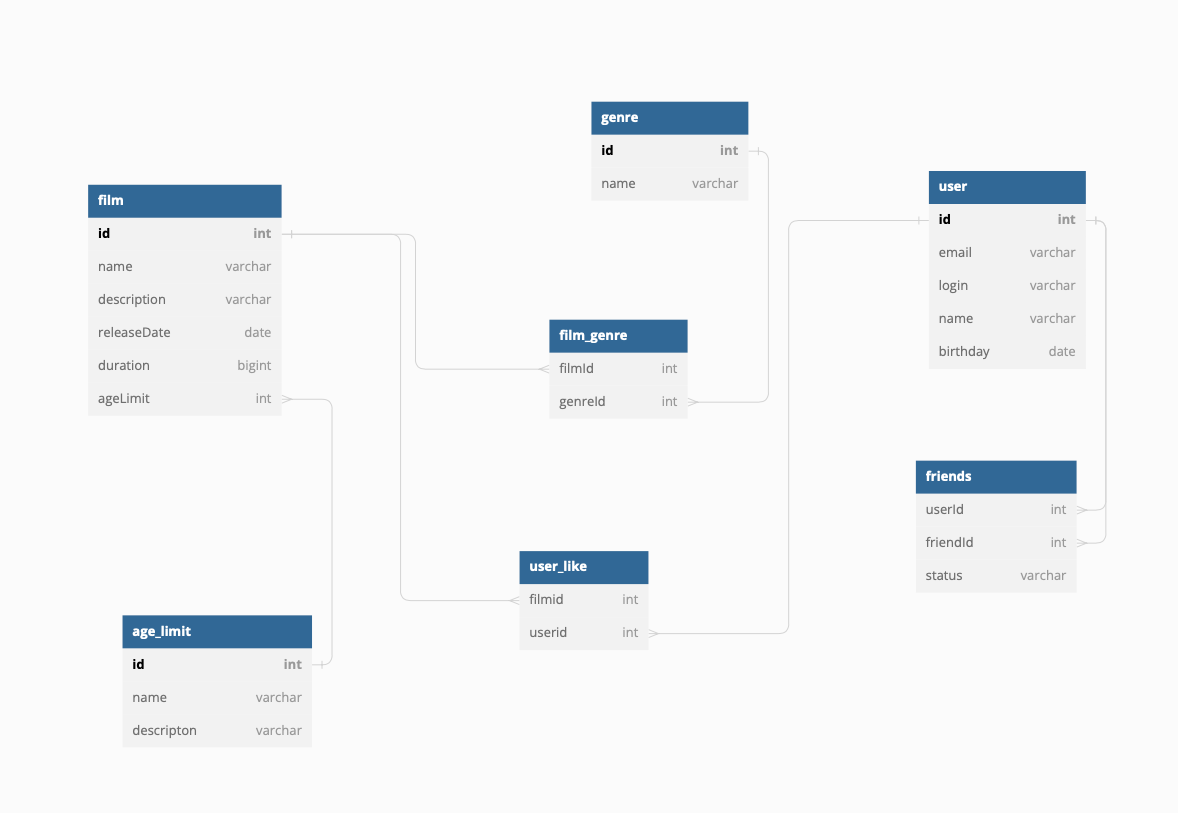
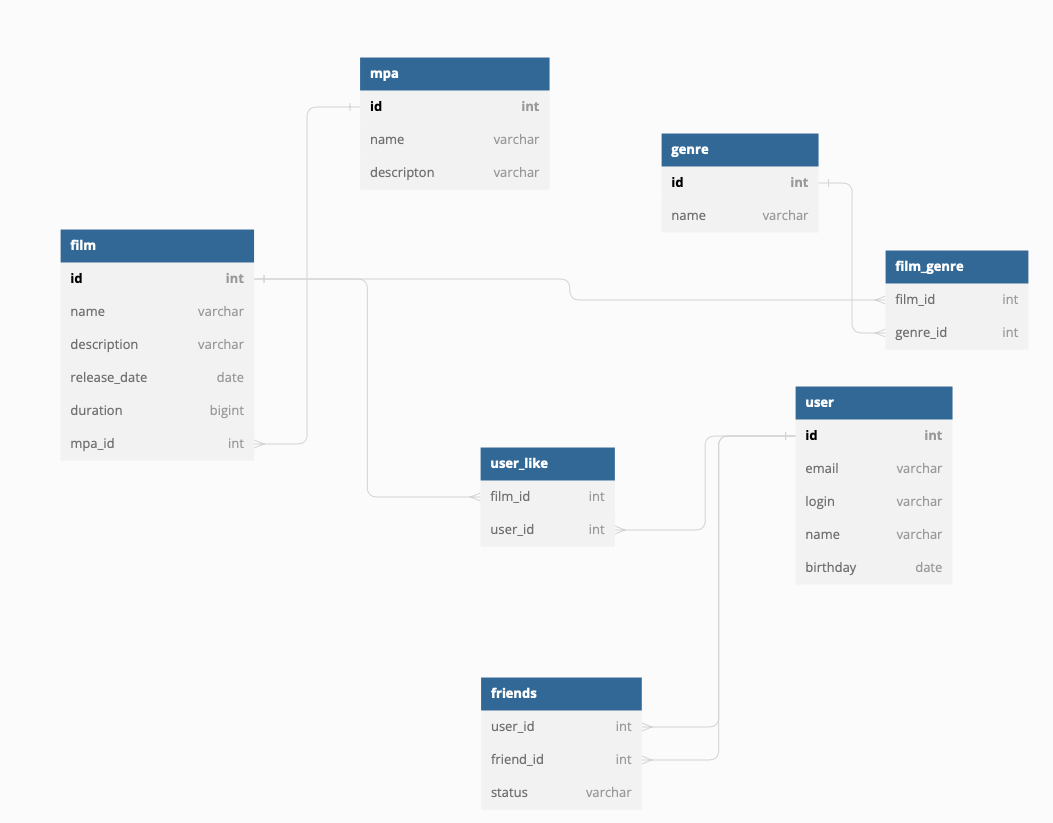
add new branch

diff --git a/src/main/java/ru/yandex/practicum/filmorate/model/Film.java b/src/main/java/ru/yandex/practicum/filmorate/model/Film.java
@@ -23,7 +23,7 @@ public class Film {
     private Set<Integer> listUsersLikes = new HashSet<>();
    // private List<Genre> genre = new ArrayList<>();
    // @NonNull
-    //rivate AgeLimit ageLimit;
+    //private MPA mpa;
 
     public void addInLikeList(int userId) {
         listUsersLikes.add(userId);

diff --git a/src/main/java/ru/yandex/practicum/filmorate/model/MPA.java b/src/main/java/ru/yandex/practicum/filmorate/model/MPA.java
@@ -5,7 +5,7 @@ import lombok.Data;
 import lombok.NonNull;
 
 @Data
-public class AgeLimit {
+public class MPA {
     @NonNull
     private int id;
     @NonNull

diff --git a/README.md b/README.md
@@ -11,15 +11,15 @@ Table film {
  id int [pk]
  name varchar
  description varchar
- releaseDate date
+ release_date date
  duration bigint
- ageLimit int
+ mpa_id int
 }
 
-Ref: film.id < user_like.filmid
-Ref: film.ageLimit > age_limit.id
+Ref: film.id < user_like.film_id
+Ref: film.mpa_id > mpa.id
 
-Table age_limit {
+Table mpa {
  id int [pk]
  name varchar
  descripton varchar
@@ -29,13 +29,13 @@ Table genre {
  id int [pk]
  name varchar
 }
-Ref: genre.id < film_genre.genreId
+Ref: genre.id < film_genre.genre_id
 
 Table film_genre {
- filmId int 
- genreId int
+ film_id int 
+ genre_id int
 }
-Ref: film_genre.filmId > film.id
+Ref: film_genre.film_id > film.id
 
 Table user {
  id int [pk]
@@ -44,20 +44,18 @@ Table user {
  name varchar
  birthday date
 }
-Ref: user.id < user_like.userid
+Ref: user.id < user_like.user_id
 
 Table friends {
- userId int 
- friendId int 
+ user_id int 
+ friend_id int 
  status varchar
 }
-Ref: friends.userId > user.id
-Ref: friends.friendId > user.id
+Ref: friends.user_id > user.id
+Ref: friends.friend_id > user.id
 
 Table user_like {
- filmid int 
- userid int 
+ film_id int 
+ user_id int 
 }
-
-
 ```
